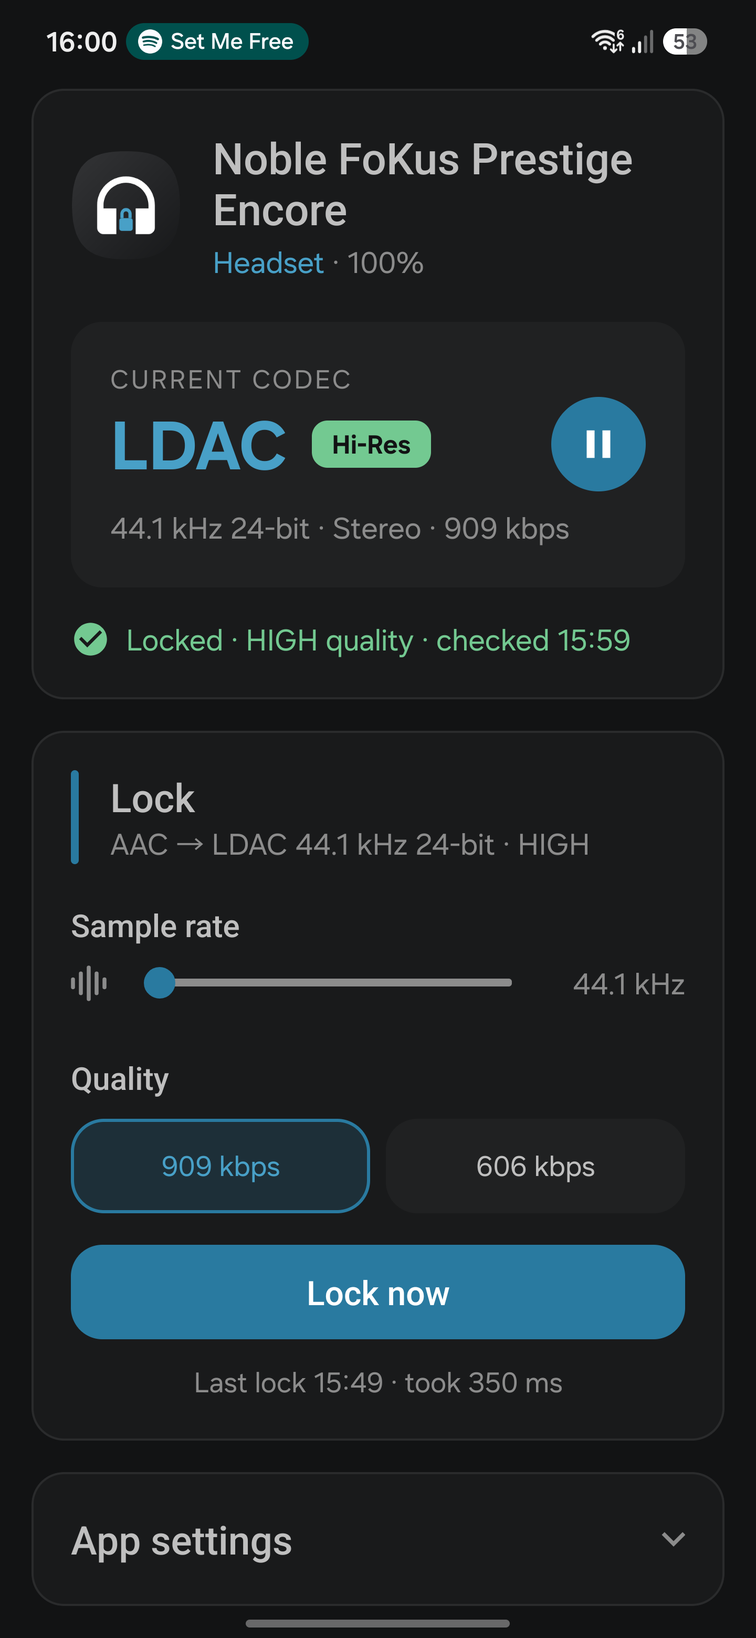
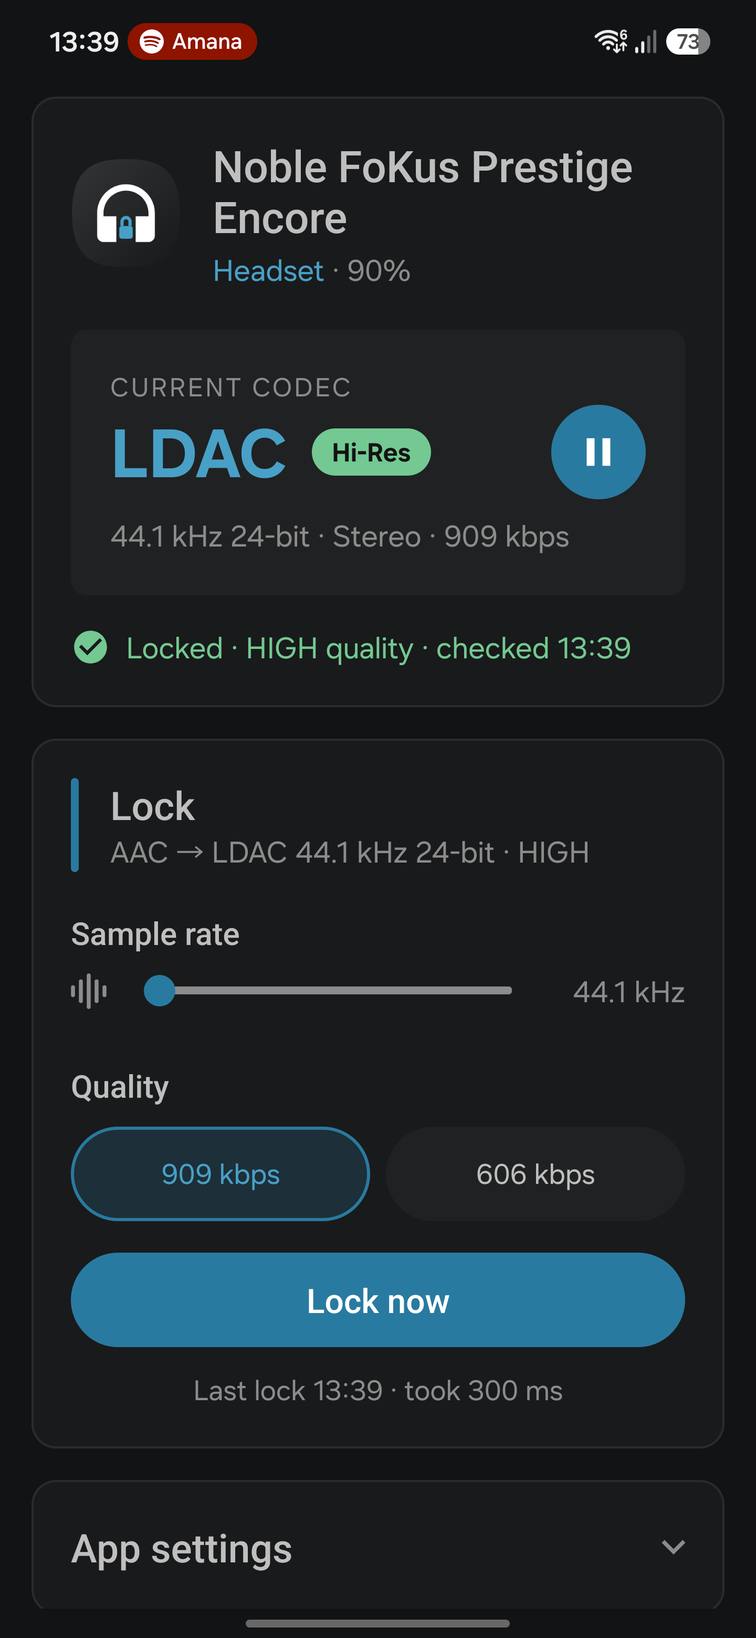
release: 2.0

diff --git a/app/src/main/java/nl/stouthart/ldaclock/MainActivity.kt b/app/src/main/java/nl/stouthart/ldaclock/MainActivity.kt
@@ -31,6 +31,7 @@ import android.media.AudioPlaybackConfiguration
 import android.os.Bundle
 import android.os.Handler
 import android.os.Looper
+import android.os.SystemClock
 import android.text.SpannableString
 import android.text.format.DateFormat
 import android.text.style.ForegroundColorSpan
@@ -132,6 +133,8 @@ class MainActivity : Activity(), BluetoothProfile.ServiceListener {
     private var playing: Boolean? = null // What the play button shows: playing, waiting, or no app (no button).
     private var sessionReading = false // One read of the music app's state at a time; one more if asked meanwhile.
     private var sessionAgain = false
+    private var tapped = 0L // The uptime of the last Play/Pause tap here; for FRESH_MS on, see heeds().
+    private val settled = Runnable { if (started) session() } // The read that has the last word after a tap.
 
     override fun onCreate(b: Bundle?) {
         super.onCreate(b)
@@ -149,7 +152,12 @@ class MainActivity : Activity(), BluetoothProfile.ServiceListener {
             val key = if (p) KeyEvent.KEYCODE_MEDIA_PAUSE else KeyEvent.KEYCODE_MEDIA_PLAY
             audio.dispatchMediaKeyEvent(KeyEvent(KeyEvent.ACTION_DOWN, key))
             audio.dispatchMediaKeyEvent(KeyEvent(KeyEvent.ACTION_UP, key))
-            playButton(!p) // At once; the playback notice that follows confirms it.
+            // At once; a read once the music app followed confirms it, also when no app took the key: nothing then sends
+            // a playback notice.
+            playButton(!p)
+            tapped = SystemClock.uptimeMillis()
+            main.removeCallbacks(settled)
+            main.postDelayed(settled, FRESH_MS)
         }
         spec = findViewById(R.id.spec)
         note = findViewById(R.id.note)
@@ -295,6 +303,9 @@ class MainActivity : Activity(), BluetoothProfile.ServiceListener {
         main.removeCallbacks(look)
         main.removeCallbacks(media)
         main.removeCallbacks(fresh)
+        main.removeCallbacks(settled)
+        main.removeCallbacks(refresh)
+        tapped = 0L // Back on screen, the first read shows what is.
         Last.listeners -= refresh
         Last.notice = null
         a2dp?.let { adapter.closeProfileProxy(A2DP, it) }
@@ -320,6 +331,9 @@ class MainActivity : Activity(), BluetoothProfile.ServiceListener {
     override fun onServiceConnected(profile: Int, proxy: BluetoothProfile) {
         pending = false
         if (!started) return adapter.closeProfileProxy(A2DP, proxy) // Asked before onStop, answered after it.
+        // A second answer, to a request from before a quick stop and start: the one held stays, this one closes, in
+        // either order, so none is left open.
+        if (a2dp != null && a2dp !== proxy) return adapter.closeProfileProxy(A2DP, proxy)
         a2dp = proxy as BluetoothA2dp
         show()
     }
@@ -382,7 +396,6 @@ class MainActivity : Activity(), BluetoothProfile.ServiceListener {
         }
     }
 
-    /** Bluetooth off, no headphones, or no permission: only the message in the device card. */
     /** The device line: the headphones' kind in blue, then their battery as they report it, in orange when low. */
     private fun line(d: BluetoothDevice) {
         val kind = getString(d.kind())
@@ -414,6 +427,7 @@ class MainActivity : Activity(), BluetoothProfile.ServiceListener {
         note.setTextColor(getColor(if (once) R.color.text2 else R.color.warning))
     }
 
+    /** Bluetooth off, no headphones, or no permission: only the message in the device card. */
     private fun empty(message: Int) {
         gen++ // A read still out would show a codec under this message.
         config = null // Nor may a second read queued behind it.
@@ -433,7 +447,12 @@ class MainActivity : Activity(), BluetoothProfile.ServiceListener {
         gen++
         config = null // Set again below for an encoder read; until then no read shows a codec from before.
         showLast()
-        lock.setText(R.string.lock_now)
+        // A lock still running, from here or the tile, keeps its Locking… through a redraw, as the tile does; its result
+        // redraws the screen. One that never reported stops counting after a while: the screen then redraws itself.
+        val locking = Last.isLocking
+        lock.setText(if (locking) R.string.locking else R.string.lock_now)
+        main.removeCallbacks(refresh)
+        if (locking) main.postDelayed(refresh, Last.lockLeft)
         if (checkSelfPermission(BLUETOOTH_CONNECT) != PERMISSION_GRANTED) return empty(R.string.no_bluetooth)
         val d = activeHeadphones(a) ?: return empty(R.string.no_device)
 
@@ -444,7 +463,7 @@ class MainActivity : Activity(), BluetoothProfile.ServiceListener {
         val paired = isPaired(d)
         pair.shown = !paired
         enable(pair, true)
-        enable(lock, paired)
+        enable(lock, paired && !locking)
         panel.shown = paired
         if (!again) state.shown = false
         if (!paired) return
@@ -507,6 +526,7 @@ class MainActivity : Activity(), BluetoothProfile.ServiceListener {
             return
         }
         sessionReading = true
+        val at = SystemClock.uptimeMillis()
         Thread {
             // With DUMP, always the state the music app reports to Android: the output can keep counting as playing for
             // a long while after a pause, as on the Astra. The media session's dump is small and quick, and safe while
@@ -517,12 +537,19 @@ class MainActivity : Activity(), BluetoothProfile.ServiceListener {
                 if (sessionAgain) {
                     sessionAgain = false
                     if (started) session()
-                } else if (started) {
+                } else if (started && heeds(at, p)) {
                     playButton(p)
                 }
             }
         }.start()
     }
+
+    /**
+     * Whether a read begun at [at] that found [p] may show, after a Play/Pause tap here: not one begun before the tap,
+     * nor one that still disagrees with it while the music app follows and the music goes quiet (without DUMP, the
+     * output can count as playing for a while after a pause). Either would flip the button back. From FRESH_MS on, all.
+     */
+    private fun heeds(at: Long, p: Boolean?) = at >= tapped + FRESH_MS || at > tapped && p == playing
 
     private fun playButton(p: Boolean?) {
         playing = p

diff --git a/app/src/main/java/nl/stouthart/ldaclock/LockTile.kt b/app/src/main/java/nl/stouthart/ldaclock/LockTile.kt
@@ -192,12 +192,7 @@ class LockTile : TileService(), BluetoothProfile.ServiceListener {
             Last.locked()
             return openApp()
         }
-        qsTile?.apply {
-            state = Tile.STATE_ACTIVE
-            subtitle = getString(R.string.locking)
-            name(R.string.locking)
-            updateTile()
-        }
+        update() // Locking…
     }
 
     private fun Tile.name(res: Int) {
@@ -216,6 +211,11 @@ class LockTile : TileService(), BluetoothProfile.ServiceListener {
             t.state = Tile.STATE_UNAVAILABLE
             t.subtitle = getString(R.string.bluetooth_off)
             t.name(R.string.bluetooth_off)
+        } else if (Last.isLocking) {
+            // A lock running, from here or the app: Locking… until its result is in, also when the panel opens again.
+            t.state = Tile.STATE_ACTIVE
+            t.subtitle = getString(R.string.locking)
+            t.name(R.string.locking)
         } else {
             val ok = Last.current(this)
             t.state = if (ok) Tile.STATE_ACTIVE else Tile.STATE_INACTIVE

diff --git a/app/src/main/java/nl/stouthart/ldaclock/Codec.kt b/app/src/main/java/nl/stouthart/ldaclock/Codec.kt
@@ -178,14 +178,14 @@ fun pickRate(want: Int, offered: (Int) -> Boolean): Int {
     return order.firstOrNull(offered) ?: want
 }
 
+/** The detour's rate: the lowest its codec offers on these headphones, 44.1 kHz where offered; 0 for none. */
+fun detourRate(mask: Int) = Integer.lowestOneBit(mask)
+
 /**
  * Builds the steps to LDAC at [want] Hz and quality [q] from the phone's path and what the headphones can select.
  * Software or unknown: AAC → 32-bit → 24-bit. Hardware: one LDAC change. Null for headphones that don't offer LDAC,
  * or whose codecs can't be read: a detour via AAC or SBC would then leave them there, worse off than before.
  */
-/** The detour's rate: the lowest its codec offers on these headphones, 44.1 kHz where offered; 0 for none. */
-fun detourRate(mask: Int) = Integer.lowestOneBit(mask)
-
 fun plan(s: BluetoothCodecStatus?, path: Path?, want: Int, q: Long): Plan? {
     val caps = s?.codecsSelectableCapabilities.orEmpty()
     val ldac = caps.firstOrNull { it.isLdac } ?: return null

diff --git a/app/src/main/java/nl/stouthart/ldaclock/Last.kt b/app/src/main/java/nl/stouthart/ldaclock/Last.kt
@@ -102,6 +102,9 @@ object Last {
 
     val isLocking get() = lockAt != 0L && SystemClock.elapsedRealtime() - lockAt < LOCK_MS
 
+    /** ms until a lock that never reported stops counting as running; 0 while none runs. */
+    val lockLeft get() = if (isLocking) LOCK_MS - (SystemClock.elapsedRealtime() - lockAt) else 0L
+
     private fun prefs(c: Context) = c.getSharedPreferences("last", Context.MODE_PRIVATE)
 
     /** The last attempt locked: its history, which a reconnect afterwards doesn't change. */

diff --git a/RELEASE.md b/RELEASE.md
@@ -1,58 +1,23 @@
-<!-- 1.5 - Copyright (C) 2026 Stouthart. All rights reserved. -->
+<!-- 2.0 - Copyright (C) 2026 Stouthart. All rights reserved. -->
 
 # Release notes
 
-Highlights per version, newest first.
+Highlights per version, newest first, with 1.x condensed. 2.0 is the version distributed; the entries below it show how the app got there.
 
-## 1.5 - November 2026
+## 2.0 - November 2026
 
-- **Problems in orange:** under **Lock now**, **Pause playback first** and a failed lock's line, such as **Last lock failed 22:23 · …**, show in orange, as the app's other problems do; a lock that worked stays grey.
-- **Battery in view:** the headphones' battery, when they report it, next to their kind, such as **Headset · 80%**, in orange from 15% down. The Bluetooth address, which told nobody anything, is gone from that line.
-- **What RedMagic resamples:** under the format, a line tells what its mixer, fixed at 48 kHz, resamples: music at 44.1 kHz once, and LDAC at another rate than the mixer's adds a resample, in orange, as Sample rate avoids it. Shown only where the mixer was measured at 48 kHz.
-- **Version in App settings:** the version and copyright line is the last line of App settings, rather than at the foot of the screen.
-- **Upright on a phone:** the screen no longer turns on a phone; on a tablet, from 600dp wide, it turns as before.
-- **A bigger target:** App settings opens with a tap anywhere on its card, and closes with a tap on its title.
-- **Touch feedback that fits:** Quality's and Appearance's choices light up within their rounded corners, as the buttons do.
-- **More room between settings:** Quality sits a little further below the Sample rate slider, as far as settings stand apart elsewhere.
-- **Sturdier:** a lock detects the encoder again after each restart, so a hardware path, after switching hardware offload in Developer options, can't be taken for software and skip the pause check. A lock's detour via AAC or SBC asks a rate the headphones offer for it, where a pair with AAC at 48 kHz only would wait 5 seconds and end on AAC. On RedMagic, and on a phone whose encoder LDAC Lock can't tell without `DUMP`, a lock asks again whether music plays right before its first change, as music that started a moment after the tap would silence a hardware encoder; it then says **Pause playback first**, as at the tap, and changes nothing. The tile no longer shows a lock as holding after Bluetooth was off: once it's on again, it checks whether the lock still holds. The Play/Pause button in **Current codec** no longer jumps back to Pause after a pause, as on the Astra, where the sound output keeps counting as playing for a while: with `DUMP` it goes by the state the music app reports to Android, also a while after the pause and back in the app.
+- **New corners:** the cards are a little less round, and the **Current codec** panel less round still, as a panel within a card. Quality's and Appearance's choices, **Lock now**, **Pair headphones** and the **Hi-Res** badge are capsules, with round ends.
+- **Play/Pause stays put:** the button in **Current codec** changes at a tap and no longer flips back for a moment when a check of the music app that began before the tap comes back. For a moment after the tap, a check that disagrees is left out while the music app follows and the music goes quiet; the check after that has the last word, also when no app took the key.
+- **Locking… stays:** while a lock runs, from the app or the tile, **Lock now** keeps saying **Locking…** and stays greyed out, and the tile keeps its **Locking…**, also when something else redraws them meanwhile, as the headphones' battery changing or Quick Settings opening again. A lock that never reports lets go after 30 seconds.
+- **Sturdier:** leaving the app and opening it again quickly no longer leaves a second connection to Android's Bluetooth audio open.
 
-## 1.4 - November 2026
+## 1.x - November 2026
 
-- **Calmer corners:** the cards, the **Current codec** panel, Quality's choices and **Lock now** share one corner, less round than before.
-- **Even spacing:** the Sample rate slider sits close under its name, its bars icon on the name's line, and as far from **Quality** as the other sections are apart. App settings' ⌄ lines up with the card's content, and its title shows its whole highlight when tapped.
+The first release, then Sample rate, Quality, new colours, the Play/Pause button and the headphones' battery.
 
-## 1.3 - November 2026
-
-- **New colours:** white and light-grey surfaces with one clear blue in light mode, near-black greys in dark; the icon on dark grey, with a touch of that blue. The **Hi-Res** badge is green, as a lock's line, and **Bluetooth off** and **No headphones connected** show in orange.
-- **Follows the codec:** the screen, and the tile while Quick Settings is open, notice the codec changing by itself, such as HIGH falling back to MID, rather than at the next look. One check per change, never on a timer: on Samsung a check reads the Bluetooth stack's state, which keeps it busy for a moment.
-- **No skips while music plays:** reading Samsung's encoder made the audio skip, at its worst when the app came back to the front. While music plays, the screen and the tile now show the encoder as last read, the screen with the time it was read, such as **Locked · HIGH quality · checked 08:06**, and read it again once playback stops. Without a read for the codec Android reports, the screen says **Not verified · checked when playback stops**. The Play/Pause button needs no read for a playing app.
-- **Play and pause in the panel:** while a music app plays or waits, a round Play/Pause button shows in **Current codec**, the key a headset's button sends: pause before a lock where one needs that, play on after. It follows playback in any app, read once per change.
-- **Sturdier verdicts:** the lock, the screen and the tile now judge a lock the same way. Without `DUMP` a match of rate and bit depth reads **Not verified · needs DUMP to read the encoder** rather than Locked. On RedMagic a lock also waits for the quality after a change of rate or bit depth, and every lock checks that the same headphones are still playing before each change and before it reports. A lock that fails, as with the headphones gone, no longer turns one that still holds into **Not locked**. A phone without A2DP offload is no longer taken for a hardware encoder.
-- **Steadier tile and screen:** the tile also notices headphones disconnecting or another pair taking over while Quick Settings is open, checks one at a time, with one more when something changed during a check, reads the encoder once music stops, and never clears a lock that finished after its check began. The screen no longer brings back an old status after the headphones disconnect, and a read that a lock overtook no longer replaces the lock's own.
-- **App settings:** the Settings card is now called App settings; opening it scrolls all of it into view, its lower edge included.
-
-## 1.2 - November 2026
-
-- **Quality** in the Lock section: HIGH, LDAC's top quality, or MID for a steadier connection where HIGH keeps dropping out, as in a busy office. Each choice shows its bitrate at the chosen Sample rate: 909 or 606 kbps at 44.1 and 88.2 kHz, 990 or 660 kbps at 48 and 96 kHz. The status, the summary and the tile follow it.
-- **Sturdier locks:** only the headphones Android plays to, never a guess between two pairs; headphones without LDAC are left alone; on RedMagic a change of quality alone is waited for; on Samsung an unreadable encoder shows **Not verified** instead of Locked, and the tile also notices the encoder falling back to adaptive. A failed lock no longer turns an earlier one into "failed" after a reconnect, and an uncertain encoder detection is read again rather than kept.
-- **Settings fold away:** a tap on the title opens or closes them; closed at first, then as you left them.
-- **Buttons and choices at one height.**
-- **Headphones** throughout, as audiophiles say: **Pair headphones**, **No headphones connected**.
-
-## 1.1 - November 2026
-
-- **Android 14 and 15** as well, besides 16 and 17. Untested on those versions so far: the method was worked out on 16 and 17, and an older Bluetooth stack may behave or report differently.
-- **Sample rate** in the Lock section: 44.1, 48, 88.2 or 96 kHz, for the app and the tile alike. Until it's moved, the phone's own: 44.1 kHz on Samsung, 48 kHz on RedMagic. Locks at 88.2 kHz checked on both.
-- **New icon:** a gradient in the logo's blues, with a light-blue padlock between the headphones.
-
-## 1.0 - November 2026
-
-The first release: LDAC at its highest quality with one tap, on Samsung and RedMagic phones. The APK is attached to the release.
-
-- **One tap**, from a Quick Settings tile or the app, on the headphones Android is playing to.
-- **Samsung:** a detour via AAC makes the phone reopen the stream, and LDAC ends at 44.1 kHz, 24-bit, top quality (909 kbps), checked against the encoder itself.
-- **RedMagic:** one LDAC change to 48 kHz, 24-bit, top quality (990 kbps), only while playback is paused, as a change during playback silences the audio chip.
-- **Detects the phone's encoder**, software or hardware, and the mixer's rate, once per firmware build. This needs the `DUMP` permission, granted over adb; without it, LDAC Lock changes nothing during playback.
-- **A screen** with the headphones, the current codec and whether it is locked, that follows the headphones and Bluetooth as they change. Light or dark as the phone is, or as set under **Appearance**.
-- **A tile** that shows the result: as its second line on Samsung, and as its name on RedMagic, whose round tiles hide that line. Greyed out while Bluetooth is off.
-- **Small and quiet:** 71 KB, no libraries, no internet permission, nothing running in the background, and a start in about 140 ms.
+- **1.0** - LDAC at its highest quality with one tap, from a Quick Settings tile or the app, on the headphones Android is playing to. Samsung gets a detour via AAC and ends at 44.1 kHz, 24-bit, 909 kbps, checked against the encoder itself; RedMagic one LDAC change to 48 kHz, 24-bit, 990 kbps, only while playback is paused. The phone's encoder and mixer rate detected once per firmware build, with the `DUMP` permission granted over adb. A screen with the headphones, the current codec and whether it's locked, and a tile that shows the result. 71 KB, no libraries, no internet permission, nothing running in the background.
+- **1.1** - Android 14 and 15 as well, untested so far; **Sample rate**, 44.1, 48, 88.2 or 96 kHz, for the app and the tile alike; a new icon in the logo's blues.
+- **1.2** - **Quality**, HIGH or MID for a steadier connection, each with its bitrate at the chosen rate; sturdier locks, only on the headphones Android plays to and never on headphones without LDAC; settings that fold away; buttons and choices at one height; **headphones** throughout.
+- **1.3** - New colours, white and light grey with one clear blue, or near-black greys; the screen and the tile following the codec as it changes by itself, such as HIGH falling back to MID; no audio skips while music plays, with the encoder as last read and the time it was read; a **Play/Pause** button in **Current codec**; sturdier verdicts, the same in the lock, the screen and the tile; **App settings**.
+- **1.4** - Calmer corners, and even spacing around the Sample rate slider and App settings.
+- **1.5** - The headphones' battery next to their kind, in orange from 15% down; a refused or failed lock in orange; on RedMagic, what its mixer resamples; the version in App settings; upright on a phone; App settings opening with a tap anywhere on its card; sturdier locks and tile, and a Play/Pause button that no longer jumps back after a pause.

diff --git a/README.md b/README.md
@@ -1,12 +1,12 @@
-<!-- 1.5 - Copyright (C) 2026 Stouthart. All rights reserved. -->
+<!-- 2.0 - Copyright (C) 2026 Stouthart. All rights reserved. -->
 
 # Lock Bluetooth LDAC at its highest quality
 
-A small Android app that sets your headphones' **LDAC** connection to its highest quality with one tap, from a Quick Settings tile or the app itself. Android starts every LDAC connection at adaptive quality, which lowers the bitrate whenever the connection gets busy, and on Samsung phones a plain change of the quality setting doesn't even reach the encoder. LDAC Lock makes the change stick, then checks what the encoder actually runs. Where the connection can't hold the top quality, it locks a lower fixed one instead. No internet access, no ads, no account, no background service, and nothing beyond Android itself: the app is 94 KB.
+A small Android app that sets your headphones' **LDAC** connection to its highest quality with one tap, from a Quick Settings tile or the app itself. Android starts every LDAC connection at adaptive quality, which lowers the bitrate whenever the connection gets busy, and on Samsung phones a plain change of the quality setting doesn't even reach the encoder. LDAC Lock makes the change stick, then checks what the encoder actually runs. Where the connection can't hold the top quality, it locks a lower fixed one instead. No internet access, no ads, no account, no background service, and nothing beyond Android itself: the app is 95 KB.
 
-<p align="center"><img src="docs/screenshot-s25.png" width="360" alt="LDAC Lock on a Galaxy S25 Edge, locked at LDAC 44.1 kHz, 24-bit, 909 kbps, the headphones at 100%, with music playing"></p>
+<p align="center"><img src="docs/screenshot-s25.png" width="360" alt="LDAC Lock on a Galaxy S25 Edge, locked at LDAC 44.1 kHz, 24-bit, 909 kbps, the headphones at 90%, with music playing"></p>
 
-This is **version 1.5**. The [release notes](RELEASE.md) list what each version changed.
+This is **version 2.0**. The [release notes](RELEASE.md) list what each version changed.
 
 ## What it sets
 
@@ -32,10 +32,10 @@ Developed and tested on a **Samsung Galaxy S25 Edge** (One UI 9, Android 17) and
 
 ## Installation
 
-Download `LDAC-Lock-1.5.apk` from the [latest release] and open it on the phone; Android asks to allow installing apps from that source first. Or install it from a computer with the phone connected over USB or wireless debugging:
+Download `LDAC-Lock-2.0.apk` from the [latest release] and open it on the phone; Android asks to allow installing apps from that source first. Or install it from a computer with the phone connected over USB or wireless debugging:
 
 ```bash
-adb install LDAC-Lock-1.5.apk
+adb install LDAC-Lock-2.0.apk
 ```
 
 Then grant the one permission an app can't ask for itself:
@@ -108,9 +108,9 @@ At the top, the headphones' name and kind, and their battery when they report it
 
 On RedMagic, a line under the format in **Current codec** tells what its mixer, fixed at 48 kHz, resamples: `Music at 44.1 kHz is resampled once, to the mixer's 48 kHz.`, or with another Sample rate, in orange, as setting 48 kHz avoids it, `The mixer runs at 48 kHz: LDAC at 44.1 kHz adds a resample.` On Samsung the mixer follows the codec, so there's no such line.
 
-In the **Current codec** panel, a round **Play/Pause** button shows while a music app plays or waits, such as Spotify paused. It sends the key a headset's button sends, so it pauses before a lock where one needs that, and plays on after. With `DUMP` it follows the app that gets the keys; without, it shows **Pause** only while something plays, as **Play** might start an app nobody meant.
+In the **Current codec** panel, a round **Play/Pause** button shows while a music app plays or waits, such as Spotify paused. It sends the key a headset's button sends, so it pauses before a lock where one needs that, and plays on after. It changes at a tap, and checks again once the music app had a moment to follow. With `DUMP` it follows the app that gets the keys; without, it shows **Pause** only while something plays, as **Play** might start an app nobody meant.
 
-Above **Lock now**, **Sample rate** and **Quality** set what the next lock aims at; Quality's two choices show their bitrate at the chosen rate, such as `909 kbps` and `606 kbps`. Changing either never locks by itself. Below, the last lock shows its time and how long it took, or in orange why it failed, or that playback needs pausing first.
+Above **Lock now**, **Sample rate** and **Quality** set what the next lock aims at; Quality's two choices show their bitrate at the chosen rate, such as `909 kbps` and `606 kbps`. Changing either never locks by itself. While a lock runs, from here or the tile, the button says **Locking…**. Below, the last lock shows its time and how long it took, or in orange why it failed, or that playback needs pausing first.
 
 **App settings** opens with a tap anywhere on it and closes with a tap on its title; it starts closed and then stays as you left it. When it opens, all of it scrolls into view. In it, **Appearance** sets the app's look: **System default** follows the phone, **Light mode** and **Dark mode** set it for LDAC Lock alone. Its last line is the app's version and copyright.
 
